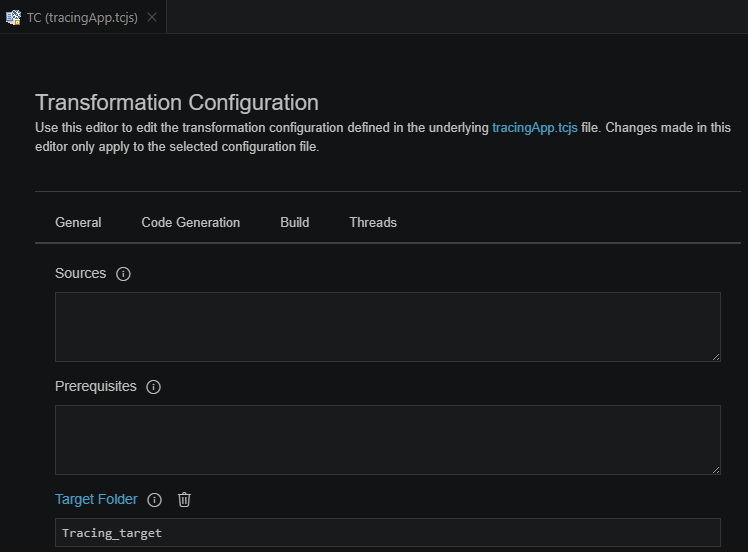
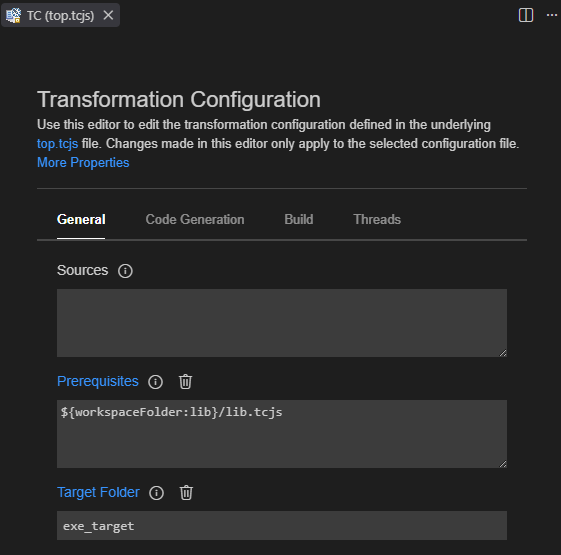
Initial set of doc updates for 3.7.0 (#199)
* Initial set of doc updates for 3.7.0

* Fix copilot remarks

* More 3.7.0 doc updates

* More doc updates for 3.7.0

diff --git a/docs-sources/working-with-art/art-query-view.md b/docs-sources/working-with-art/art-query-view.md
@@ -1,0 +1,90 @@
+The Art Query view shows the result of running a **query** on an Art element in order to find other Art elements that are related to it. {$product.name$} provides several useful queries for finding Art elements that are defined in the Art files of your workspace. You can use these queries to
+
+* find Art elements that are not easy to find with the regular **Find** or **Find in Files** commands
+* navigate to Art elements in a more efficient way than what is possible in the Art editor or in diagrams
+* get a better overview of the Art elements in your application than what is possible with the [Outline view](outline-view.md)
+* get a more focused view by only looking at some of all the elements that are shown in a big state or structure diagram
+
+To run a query, right-click in an Art file where an Art element is defined and perform the context menu command **Art Query**. All queries that can be run on the selected Art element appears:
+
+![](images/art-queries.png)
+
+Note that for some kinds of Art elements there may not be any applicable queries, and in that case the **Art Query** command will do nothing. See [Queries](#queries) for a list of available queries and what Art elements each query can be run on.
+
+The result of running a query is shown in the Art Query view either as a flat list or as a hierarchical tree. Click on an Art element to navigate to its definition in an Art file. Here is an example of running the [Service Ports](#service-ports) query which lists found Art elements in a flat list.
+
+![](images/query-flat-list.png)
+
+The following buttons are available in the Art Query view toolbar:
+
+* **Run Query** Runs the current query again. Use this button if you have changed some Art files and want to refresh the Art Query view with up-to-date information without having to invoke the **Art Query** command for the same query again.
+* **Save As Text** Creates a text document with a textual representation of the contents of the Art Query view. You can choose to save the document as a text file, copy it into the clipboard or just keep the document open as long as you need the query result.
+* **Clear** Clears the Art Query view and shows documentation about all available [queries](#queries).
+* **Documentation** Shows documentation about the current query in a web browser.
+* **Collapse All** This button is enabled if the query result is a hierarchical tree, and will then collapse the tree so only the root elements are shown.
+
+You can also invoke the **Art Query** command from diagrams. Select the symbol or line that represents the Art element you want to run a query on and then press ++ctrl+space++ to open the diagram context menu. If there is at least one query that is applicable for the Art element, the **Art Query** command will be available.
+
+![](images/art-query-from-diagrams.png)
+
+## Cyclic Query Results
+Queries that result in a hierarchical tree may contain cycles. This happens if a child Art element is the same as one of its direct or indirect parents. The Art Query view will detect such cycles by appending the string "(CYCLIC CHILDREN)" after the description of the element whose children form the cycle. You can see the cyclic children in the query result tree by invoking the context menu command **Show Cyclic Children**.
+
+For example, the query [Capsule Parts](#capsule-parts) will produce a cyclic query result if a capsule directly or indirectly contains an optional part that is typed by the capsule itself. In the picture below this is the case for the `SubSystem` capsule which is the type of the `subSystem` part which is an indirect parent of the `parent` part. The command **Show Cyclic Children** can be used on the `parent` part to navigate to the `subSystem` part.
+
+![](images/cyclic-query-result.png)
+
+## Queries
+The table below lists all queries that are available. Each query is described in a section of its own below the table.
+
+<p id="queries"/>
+
+| Query | Applicable For | Description | 
+|----------|:-------------|:-------------|
+| [Capsule Parts](#capsule-parts) | Capsule | Finds the capsule parts directly or indirectly owned by a capsule
+| [Fixed Capsule Parts](#fixed-capsule-parts) | Capsule | Finds the fixed capsule parts directly or indirectly owned by a capsule
+| [Incoming Events on Service Ports](#incoming-events-on-service-ports) | Capsule | Finds all events a capsule can receive on its service ports
+| [Internal Transitions](#internal-transitions) | State | Finds all internal transitions of a state
+| [Outgoing Events on Service Ports](#outgoing-events-on-service-ports) | Capsule | Finds all events a capsule can send on its service ports
+| [Redefined Elements](#redefined-elements) | State, Transition, Part, Port or Event | List the elements which are redefined by an element
+| [Service Ports](#service-ports) | Capsule | Finds all service ports of a capsule
+
+### Capsule Parts
+This query traverses the composite structure of a capsule and collects all capsule parts it contains. The query result is a tree where the root elements are the parts which are directly owned by the capsule. You can expand each capsule part in the tree to further explore the nested parts which are indirectly owned by the context capsule. 
+
+The query result will be [cyclic](#cyclic-query-results) if an optional or plugin part is typed by one of the capsules that contain the part, directly or indirectly.
+
+### Fixed Capsule Parts
+This query traverses the composite structure of a capsule and collects all fixed capsule parts it contains. These are the capsule parts that will be automatically incarnated with one or many capsule instances (as decided by the upper multiplicity of the part) when an instance of the capsule is created. The query result is a tree where the root elements are the fixed parts which are directly owned by the capsule. You can expand each fixed capsule part in the tree to further explore the nested parts which are indirectly owned by the context capsule.
+
+The query result will normally not be [cyclic](#cyclic-query-results), since it's not allowed to have a fixed capsule part typed by a capsule that owns the part, directly or indirectly (see the error reported by [ART_0017_circularComposition](../validation.md#art_0017_circularcomposition)). However, if this error exists in your application, the query result may be cyclic.
+
+### Incoming Events on Service Ports
+This query finds all events which a capsule can receive on its service ports. For non-conjugated ports these are in-events, while for conjugated ports they are out-events. Each reported event can be expanded to see the service port(s) where it can be received.
+
+For [notifying ports](../art-lang/index.md#notifying-port) the events `rtBound` and `rtUnbound` are included in the query result since the TargetRTS will inject them on a notifying port when it gets bound or unbound.
+
+### Internal Transitions
+This query finds all [internal transitions](../art-lang/index.md#internal-transition) of a state (which should be a composite state; other states cannot have internal transitions). The query result is a tree where the root elements are the internal transitions, either defined locally in the state or inherited from a base state. They are ordered so that locally defined transitions come first.
+
+For a state in a capsule state machine the internal transitions are triggered on events that arrive on ports. For each internal transition in the query result, the ports that are referenced by its triggers are listed as child nodes (sorted alphabetically). Below each port you can see the events that must be received on that port in order to trigger the internal transition. The special events `rtBound` and `rtUnbound` are also shown in the query result, but contrary to regular events you cannot navigate to them since they are implicitly defined in all protocols.
+
+If an internal transition has a "receive-any" trigger (i.e. a trigger that uses an asterisk (`*`) for matching any received event on a port), an event `*` will appear in the query result. You can expand it to view all events the trigger can match.
+
+![](images/query-internal-transitions-asterisk.png)
+
+For a state in a [class state machine](../art-lang/index.md#class-with-state-machine) the internal transitions are triggered by calling trigger operations. For each internal transition in the query result, the trigger operations that may trigger it are listed as child nodes (sorted alphabetically).
+
+### Outgoing Events on Service Ports
+This query finds all events which a capsule can send on its service ports. For non-conjugated ports these are out-events, while for conjugated ports they are in-events. Each reported event can be expanded to see the service port(s) where it can be sent.
+
+### Redefined Elements
+This query can be invoked on an element that is redefining another element. Such elements are declared with the **redefine** keyword in the Art file, and are either states, transitions, ports, parts or events. The query traverses the inheritance hierarchy and reports the **redefinition chain** of the element. The first element in this chain is the element that is redefined by the redefining element. If that element is itself redefining another element, the traversal continues upwards in the inheritance hierarchy until the root element of the redefinition chain is found, i.e. an element that does not further redefine another element.
+
+Listing all redefined elements in the Art Query view can give a better overview of how elements redefine other elements in a hierarchy of inherited state machines, composite structures or protocol.
+
+### Service Ports
+This query finds all service ports of a capsule. This includes those that are locally defined in the capsule and those that are inherited from a base capsule (unless they are redefined in the derived capsule). Excluded service ports are not included.
+
+Service ports constitute the externally visible communication interface for a capsule, and together they define which events can be sent to the capsule, and which events the capsule can send out for other capsules to receive. To list those events use the queries [Incoming Events on Service Ports](#incoming-events-on-service-ports) or [Outgoing Events on Service Ports](#outgoing-events-on-service-ports).
+

diff --git a/docs-sources/migration-modelrt/overview.md b/docs-sources/migration-modelrt/overview.md
@@ -2,15 +2,15 @@ The Art Exporter translates a UML-RT model into files that can be opened in {$pr
 
 * UML-RT elements that have a corresponding representation in the [Art language](../art-lang/index.md) are translated to Art files. There is one Art element in each such file. For example, a UML-RT capsule is translated to an Art capsule and a UML-RT protocol is translated to an Art protocol.
 * Other UML-RT elements are translated to C++ source files. There are usually two C++ files generated for each model element, one `.cpp` file and one `.h` file. For example, a UML-RT class is translated to a C++ class with declarations in a `.h` file and implementations in a `.cpp` file.
-* A TC file from Model RealTime is translated into a corresponding TC file for {$product.name$}. 
-* Layout information for Model RealTime diagrams is translated into layout JSON files (if the `Export Diagrams` option is set).
+* A TC file from {$rtist.name$} is translated into a corresponding TC file for {$product.name$}. 
+* Layout information for {$rtist.name$} diagrams is translated into layout JSON files (if the `Export Diagrams` option is set).
 
 Note the following:
 
-1. If your UML-RT model uses UML modeling constructs which are outside the realtime subset of UML, for example use case and sequence diagrams, those parts of the model will not be exported. If you use such UML diagrams for documentation and specification purposes in Model RealTime you should keep using Model RealTime for those parts of your model. {$product.name$} is not intended to be (or become) a general purpose UML modeling tool.
-2. {$product.name$} implements more [validation rules](../validation.md) than what Model RealTime does. It's therefore not uncommon that problems will be reported when you open or build your exported model in {$product.name$}. In some cases the Art Exporter will detect such problems and then report a warning, so make sure to carefully read and understand the warnings that are reported when you export your model. In many cases the best way to handle reported problems is to fix them in the Model RT model and then export it again. However, for some problems (especially warnings) you may instead choose to ignore them by [customizing the severity](../validation.md#configuring-validation) of the validation rules that report them.
-3. Model RT TCs may use inheritance, which is not supported in {$product.name$}. Usually it's better to use [build variants](../building/build-variants.md) than TC inheritance, and the build variants feature works the same both in Model RealTime and {$product.name$}. If you export a TC that uses inheritance all inherited properties will be placed in the exported TC.
+1. If your UML-RT model uses UML modeling constructs which are outside the realtime subset of UML, for example use case and sequence diagrams, those parts of the model will not be exported. If you use such UML diagrams for documentation and specification purposes in {$rtist.name$} you should keep using {$rtist.name$} for those parts of your model. {$product.name$} is not intended to be (or become) a general purpose UML modeling tool.
+2. {$product.name$} implements more [validation rules](../validation.md) than what {$rtist.name$} does. It's therefore not uncommon that problems will be reported when you open or build your exported model in {$product.name$}. In some cases the Art Exporter will detect such problems and then report a warning, so make sure to carefully read and understand the warnings that are reported when you export your model. In many cases the best way to handle reported problems is to fix them in the {$rtist.name$} model and then export it again. However, for some problems (especially warnings) you may instead choose to ignore them by [customizing the severity](../validation.md#configuring-validation) of the validation rules that report them.
+3. {$rtist.name$} TCs may use inheritance, which is not supported in {$product.name$}. Usually it's better to use [build variants](../building/build-variants.md) than TC inheritance, and the build variants feature works the same both in {$rtist.name$} and {$product.name$}. If you export a TC that uses inheritance all inherited properties will be placed in the exported TC.
 4. Export of diagram layout information is currently only supported for state and structure diagrams. Class diagrams will use automatic layout. This is a temporary limitation that will be removed in a future version of the Art Exporter.
-5. The appearance of diagrams is not completely retained, especially if you have customized it in Model RealTime. For example, custom fonts, images etc. will not be exported. Even if some appearance properties may be supported in a future version of {$product.name$} it's unlikely that all diagrams will ever look exactly the same in {$product.name$} as in Model RealTime, due to differences in the diagram frameworks that are used. If you have certain appearance settings that are extra important for you, please [tell us](../support.md) about them.
+5. The appearance of diagrams is not completely retained, especially if you have customized it in {$rtist.name$}. For example, custom fonts, images etc. will not be exported. Even if some appearance properties may be supported in a future version of {$product.name$} it's unlikely that all diagrams will ever look exactly the same in {$product.name$} as in {$rtist.name$}, due to differences in the diagram frameworks that are used. If you have certain appearance settings that are extra important for you, please [tell us](../support.md) about them.
 
 Before you perform a model migration make sure to read the [best practises](best-practices.md) which have been gathered from already completed migration projects.

diff --git a/docs-sources/working-with-art/art-editor.md b/docs-sources/working-with-art/art-editor.md
@@ -1,4 +1,4 @@
-You can use any text editor for editing Art files, but it's highly recommended to edit them in {$product.name$}. Thereby you will have access to features such as [syntax coloring](#syntax-coloring), [content assist](#content-assist) and semantic [validation](../validation.md).
+You can use any text editor for editing Art files, but it's highly recommended to edit them in {$product.name$}. Thereby you will have access to features such as [syntax coloring](#syntax-coloring), [content assist](#content-assist), [reference navigation](#navigating-references) and semantic [validation](../validation.md).
 
 ## Syntax Coloring
 {$product.name$} provides color themes that have been specifically designed for being used for editing Art files. Activate one of these color themes from **File - Preferences - Color Theme**.
@@ -51,6 +51,24 @@ Note that the "Microsoft C++" and "clangd" language servers work slightly differ
 
 !!! hint 
     The "clangd" language server supports an argument `--completion-parse=always` which you can add in its settings. It's recommended to set this argument, since it will force the generated C++ file to be parsed each time Content Assist is invoked, without relying on cached information.
+
+## Navigating References
+You can navigate from where an Art element is referenced to where it is defined by holding down ++ctrl++ and then click on the reference in an Art file. This invokes the **Go to Definition** command (also available in the context menu and by pressing ++"F12"++). By default this command also lets you navigate to C++ definitions that are generated from the referenced Art element, by opening a "peek" window inside the Art text editor. As an example, assume you hold down ++ctrl++ with the cursor placed on a reference to a protocol event. The reference becomes a hyperlink and a tooltip shows how many definitions you can navigate to by clicking the hyperlink.
+
+![](images/ref-navigation-art.png)
+
+Typically there is exactly one definition in an Art file, and the others are C++ definitions generated from the Art element. For the above example, the "peek" window may look like this:
+
+![](images/ref-peek-window.png)
+
+Click the nodes in the tree to the right to show a definition. Double-click a node to close the "peek" window and go to that definition.
+
+If you prefer to directly navigate to the first definition, and not show the "peek" window, you can set the setting `editor.gotoLocation.multipleDefinitions` to `goto` instead of `peek`.
+
+### Use in Code Snippets
+You can also hold down ++ctrl++ and click on references within a C++ code snippet in an Art file. {$product.name$} will then delegate the navigation request to the C++ language server extension that is installed, so the same navigation takes place as if you would have done the navigation from the generated C++ file. Note that this feature requires that C++ code has been generated from the Art file. Make sure you have set a TC as active so generated code is available.
+
+![](images/ref-in-cpp-navigation.png)
 
 ## Renaming Elements
 To rename an Art element place the cursor on the element's name and press ++"F2"++ (or invoke the command **Rename Symbol** from the context menu). This performs a "rename refactoring" that updates all references to the renamed element too.

diff --git a/docs-sources/installing.md b/docs-sources/installing.md
@@ -1,5 +1,8 @@
 
-{$product.name$} can be installed in IDEs that support Visual Studio Code extensions. This obviously includes [Visual Studio Code](https://code.visualstudio.com/) itself, but also many other IDEs such as [IBM Bob](https://bob.ibm.com/), [Cursor](https://cursor.com/), [Windsurf](https://windsurf.com/), [Eclipse Theia](https://theia-ide.org/), [DevOps Code](https://www.ibm.com/docs/en/devops-loop/latest?topic=devops-code) and others.
+{$product.name$} can be installed in IDEs that support Visual Studio Code extensions. This obviously includes [Visual Studio Code](https://code.visualstudio.com/) itself, but also many other IDEs such as [IBM Bob](https://bob.ibm.com/), [Cursor](https://cursor.com/), [Windsurf](https://windsurf.com/), [Eclipse Theia](https://theia-ide.org/), [DevOps Code](https://www.ibm.com/docs/en/devops-loop/latest?topic=devops-code) and others. 
+
+!!! note 
+    Before you install {$product.name$} you should check the [system requirements](#system-requirements).
 
 The latest version of {$product.name$} is available on the [Visual Studio Marketplace](https://marketplace.visualstudio.com/items?itemName=secure-dev-ops.code-realtime-ce) and on the [Open VSX Registry](https://open-vsx.org/extension/secure-dev-ops/code-realtime-ce). To install that version into your IDE follow these steps:
 
@@ -112,3 +115,19 @@ To uninstall {$product.name$} follow these steps:
 ![](images/uninstall.png)
 
 Once the uninstallation is finished you will no longer see {$product.name$} in the "Installed" section.
+
+## System Requirements
+
+**IDE:** {$product.name$} can be installed in all IDEs that support Visual Studio Code extensions. Refer to the documentation of your IDE for its specific system requirements. For Visual Studio Code, they are found [here](https://code.visualstudio.com/docs/supporting/requirements).
+
+**Java:** A Java Runtime Environment (JRE) must be [installed](#setup-java). It should be a 64 bit version supporting Java 21 or newer, for example OpenJDK 21 JRE or Oracle JDK 21.
+
+**C++:** C++ build tools must be [installed](#setup-c-build-tools). Any C++ compiler can be used, but to use all {$product.name$} features it should support C++ 11. Precompiled TargetRTS libraries are provided for the following compilers:
+
+* MinGW 12.2 (Windows 64 bit)
+* Microsoft Visual Studio 2022, version 17 (Windows 64 and 32 bit)
+* GNU 12 (Linux 64 bit)
+* Clang 16 (Windows 64 bit)
+* Clang 14 (macOS on x64)
+* Clang 15 (macOS on AArch64)
+* Clang 15 (VxWorks 7 Simulator on Windows)

diff --git a/docs-sources/building/index.md b/docs-sources/building/index.md
@@ -106,12 +106,14 @@ Sometimes you may need to navigate in the other direction, i.e. from a code snip
 
 ![](images/cpp_to_art_navigation.png)
 
+Another way to do this navigation is to place the cursor inside the code snippet in the generated C++ file, right-click and perform the command **Go to Art Source** from the context menu. The cursor will then be placed at the same location within the code snippet in the Art file.
+
 You can make edits in multiple code snippets in a generated file. When the file is saved all edited code snippets will be automatically propagated back to the Art file.
 
 !!! warning 
     Automatic synchronization of edited code snippets requires that the C++ file is edited and saved in {$product.name$}. If you edit generated C++ files in another editor, you need to invoke a [synchronization command](#synchronizing-external-edits) for the changes to propagate back to the Art files.
     
-Pay attention to the status bar in the bottom left corner when you save a generated file. If you know at least one code snippet was modified, but still get the message shown below:
+Pay attention to the status bar in the bottom left corner when you save a generated file that has been edited. If you know at least one code snippet was modified, but still get the message shown below:
 
 ![](images/no-code-snippets-updated.png)
 
@@ -130,4 +132,4 @@ Sometimes you may want to edit generated C++ files in another editor, external t
 Both these commands report in the Art Server console how many code snippets that were updated.
 
 ## Building from the Command Line
-You can build a TC from the command line by using the [Art Compiler](art-compiler.md).
+You can build a TC from the command line by using the [Art Compiler](art-compiler.md). A convenient way to do this from within the IDE is to use a [build task](build-tasks.md).

diff --git a/docs-sources/running-and-debugging/rts-debugger.md b/docs-sources/running-and-debugging/rts-debugger.md
@@ -29,6 +29,9 @@ By default the `time` thread (responsible for implementing [timers](../target-rt
 ## Commands
 Below is a list of all commands supported by the RTS Debugger. Each command is described in a section of its own below the table.
 
+!!! note
+    All commands and command arguments can be abbreviated as long as the abbreviation is unambigous. For example, the command `lo comm no` is equivalent to `log communication none`.
+
 | Command | Argument | Description | 
 |----------|:-------------|:-------------|
 | [attach](#attach) | `<threadId>` (number) | Make a thread attached so the RTS Debugger can control it.
@@ -122,7 +125,7 @@ Arguments: `<category>` (string) `<detailLevel>` (string)
 
 This command configures logging for services of the TargetRTS. The `<category>` specifies the service to configure logging for and is one of the following:
 
-* **communication** (or **comm**) Sending and receiving of messages (both asynchronous and synchronous communication). Also includes use of the [defer queue](../target-rts/message-communication.md#defer-queue).
+* **communication** Sending and receiving of messages (both asynchronous and synchronous communication). Also includes use of the [defer queue](../target-rts/message-communication.md#defer-queue).
 * **exception** Raising of exceptions on ports.
 * **frame** Use of [Frame](https://secure-dev-ops.github.io/code-realtime/targetrts-api/struct_frame.html) ports, for example to incarnate an optional capsule part.
 * **layer** Use of [unwired ports](../art-lang/index.md#unwired-port), for example registering or deregistering them.
